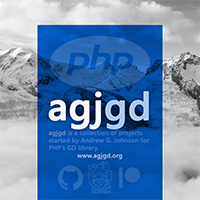
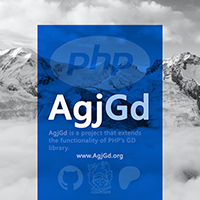
Updates for AgjGd 2.0

Changed region(s): [[0.21, 0.45, 0.75, 0.81], [0.51, 0.75, 0.69, 0.96]]

diff --git a/css/stylesheet.min.css b/css/stylesheet.min.css
@@ -1,1 +1,1 @@
-html{color:#000;background:#fff}blockquote,body,code,dd,div,dl,dt,fieldset,form,h1,h2,h3,h4,h5,h6,input,legend,li,ol,p,pre,td,textarea,th,ul{margin:0;padding:0}table{border-collapse:collapse;border-spacing:0}fieldset,img{border:0}address,caption,cite,code,dfn,em,strong,th,var{font-style:normal;font-weight:400}ol,ul{list-style:none}caption,th{text-align:left}h1,h2,h3,h4,h5,h6{font-size:100%;font-weight:400}q:after,q:before{content:''}abbr,acronym{border:0;font-variant:normal}sup{vertical-align:text-top}sub{vertical-align:text-bottom}input,select,textarea{font-family:inherit;font-size:inherit;font-weight:inherit}legend{color:#000}#yui3-css-stamp.cssreset{display:none}body,html{background-color:#fff;color:#000;font-family:"Hanken Grotesk",Arial,sans-serif;font-size:25px;text-align:center}a{color:#0366d6;text-decoration:none}a:hover{color:#2588f8;text-decoration:underline}strong{font-weight:700}em{font-style:italic}h1,h2{font-family:"Space Grotesk",Verdana,sans-serif;font-size:30px;font-weight:700;padding:10px 10px 0}ol,p,ul{line-height:150%;margin:0;padding:10px 10px 0}ol,ul{padding-left:35px}ul li{list-style-type:disc}ol li{list-style-type:decimal}h1{color:#fff;height:400px;padding:0;text-align:center;text-shadow:#000 0 0 2px,#000 0 0 2px}h1 strong{display:block;font-size:45px;line-height:65px;padding-top:295px}h1 small{display:block;font-family:"Space Mono","Courier New",Courier,monospace;font-size:12px;font-weight:400;letter-spacing:1px;line-height:20px;overflow:hidden;text-overflow:ellipsis;text-transform:uppercase;white-space:nowrap}h1 img{background-color:#000;border:6px solid #fff;border-radius:99px;box-shadow:0 0 20px 10px rgba(191,208,222,.67);display:block;height:171px;left:50%;margin-left:-93px;-moz-box-shadow:0 0 20px 10px rgba(191,208,222,.67);padding:1px;position:absolute;top:105px;-webkit-box-shadow:0 0 20px 10px rgba(191,208,222,.67);width:171px}div.block{border-bottom:1px solid #ddd;padding:20px 0 30px}div.with-avatar{position:relative}div.with-avatar p,div.with-avatar ul.projects{padding-right:120px;position:relative}img.avatar{background-color:#ccc;border-radius:20px;display:block;height:100px;margin:0 0 10px 10px;position:absolute;right:10px;top:10px;width:100px}#ctc-block p{padding-right:10px}#ctc-block img.avatar{float:right;position:relative;right:auto;top:auto}ul.projects{clear:left;padding:5px 5px 0}ul.projects li{list-style-type:none}ul.projects a{background-color:#eee;border-radius:5px;color:#000;display:block;float:left;font-family:"Space Mono","Courier New",Courier,monospace;font-size:12px;height:25px;line-height:25px;margin:5px 0 0 5px;padding:0 10px}ul.projects a:hover{color:#2588f8}ul.platforms{clear:left;padding:10px 0 0}ul.platforms li{display:inline;list-style-type:none}ul.platforms a{display:inline-block;font-family:"Space Mono","Courier New",Courier,monospace;font-size:20px;margin:0 5px;padding:0 5px;white-space:nowrap}#container{margin:0 auto;max-width:700px;position:relative;text-align:left;z-index:3}#contact{border-top:15px solid #fff;height:250px;padding:0;position:relative}#contact li{display:block;float:left;height:50px;line-height:50px;list-style-type:none;position:relative;width:50%}#contact li:nth-child(1){left:0;position:absolute;right:50%;top:0;width:auto}#contact li:nth-child(2){left:0;position:absolute;right:50%;top:50px;width:auto}#contact li:nth-child(3){left:0;position:absolute;right:50%;top:100px;width:auto}#contact li:nth-child(4){left:0;position:absolute;right:50%;top:150px;width:auto}#contact li:nth-child(5){left:0;position:absolute;right:50%;top:200px;width:auto}#contact li:nth-child(6){left:50%;position:absolute;right:0;top:0;width:auto}#contact li:nth-child(7){left:50%;position:absolute;right:0;top:50px;width:auto}#contact li:nth-child(8){left:50%;position:absolute;right:0;top:100px;width:auto}#contact li:nth-child(9){left:50%;position:absolute;right:0;top:150px;width:auto}#contact li:nth-child(10){left:50%;position:absolute;right:0;top:200px;width:auto}#contact a:hover{text-decoration:none}#contact small{color:#999;display:block;font-family:"Space Mono","Courier New",Courier,monospace;font-size:12px;letter-spacing:1px;padding:0 0 0 10px;text-transform:uppercase;width:90px}#contact strong{bottom:0;color:#000;display:block;font-size:17px;font-weight:400;left:100px;line-height:46px;right:0;overflow:hidden;position:absolute;text-overflow:ellipsis;top:0}#contact a:hover strong{color:#2588f8;text-decoration:underline}#badges{padding:10px 10px 0}#footer{color:#999;font-family:"Space Mono","Courier New",Courier,monospace;font-size:12px;padding:20px 0;text-align:center}#footer a{color:#999}#footer a:hover{color:#2588f8}#footer span{font-family:"Hanken Grotesk",Arial,sans-serif}#cover-image{background-color:#bfd0de;background-image:url(/cover-photo.jpg);background-position:50% 50%;background-repeat:no-repeat;background-size:cover;height:400px;left:0;position:absolute;right:0;top:0;z-index:2}#cover-image:after,#cover-image:before{background-image:linear-gradient(to bottom,rgba(0,0,0,0) 0,rgba(0,0,0,.5) 100%);background-image:-moz-linear-gradient(top,rgba(0,0,0,0) 0,rgba(0,0,0,.5) 100%);background-image:-ms-linear-gradient(top,rgba(0,0,0,0) 0,rgba(0,0,0,.5) 100%);background-image:-o-linear-gradient(top,rgba(0,0,0,0) 0,rgba(0,0,0,.5) 100%);background-image:-webkit-gradient(linear,left top,left bottom,color-stop(0,rgba(0,0,0,0)),color-stop(100%,rgba(0,0,0,.5)));background-image:-webkit-linear-gradient(top,rgba(0,0,0,0) 0,rgba(0,0,0,.5) 100%);bottom:0;content:"";display:block;height:100px;left:0;position:absolute;right:0}#cover-image:after{height:50px}@media only screen and (max-width :699px),only screen and (max-height :499px){body,html{font-size:20px}h1{height:150px}h1 strong{font-size:30px;line-height:40px;padding-top:80px}h1 small{letter-spacing:0}h1 img{border-width:1px;height:60px;margin-left:-32px;top:10px;width:60px}h2{font-size:25px}div.block{padding-bottom:20px;padding-top:10px}div.with-avatar ul.projects{clear:both;padding-right:10px}ul.platforms a{font-size:15px;margin-right:0}#cover-image{height:150px}}@media only screen and (max-width :699px){div.with-avatar p{padding-right:10px}div.with-avatar img.avatar{float:right;position:relative;right:auto;top:auto}#contact{border-top-width:8px;height:400px}#contact li{height:40px;line-height:40px;width:100%}#contact li:nth-child(1){left:0;right:0;top:0}#contact li:nth-child(2){left:0;right:0;top:40px}#contact li:nth-child(3){left:0;right:0;top:80px}#contact li:nth-child(4){left:0;right:0;top:120px}#contact li:nth-child(5){left:0;right:0;top:160px}#contact li:nth-child(6){left:0;right:0;top:200px}#contact li:nth-child(7){left:0;right:0;top:240px}#contact li:nth-child(8){left:0;right:0;top:280px}#contact li:nth-child(9){left:0;right:0;top:320px}#contact li:nth-child(10){left:0;right:0;top:360px}#contact strong{line-height:36px}}
+html{color:#000;background:#fff}blockquote,body,code,dd,div,dl,dt,fieldset,form,h1,h2,h3,h4,h5,h6,input,legend,li,ol,p,pre,td,textarea,th,ul{margin:0;padding:0}table{border-collapse:collapse;border-spacing:0}fieldset,img{border:0}address,caption,cite,code,dfn,em,strong,th,var{font-style:normal;font-weight:400}ol,ul{list-style:none}caption,th{text-align:left}h1,h2,h3,h4,h5,h6{font-size:100%;font-weight:400}q:after,q:before{content:''}abbr,acronym{border:0;font-variant:normal}sup{vertical-align:text-top}sub{vertical-align:text-bottom}input,select,textarea{font-family:inherit;font-size:inherit;font-weight:inherit}legend{color:#000}#yui3-css-stamp.cssreset{display:none}body,html{background-color:#fff;color:#000;font-family:"Hanken Grotesk",Arial,sans-serif;font-size:25px;text-align:center}a{color:#0366d6;text-decoration:none}a:hover{color:#2588f8;text-decoration:underline}strong{font-weight:700}em{font-style:italic}h1,h2{font-family:"Space Grotesk",Verdana,sans-serif;font-size:30px;font-weight:700;padding:10px 10px 0}ol,p,ul{line-height:150%;margin:0;padding:10px 10px 0}ol,ul{padding-left:35px}ul li{list-style-type:disc}ol li{list-style-type:decimal}h1{color:#fff;height:400px;padding:0;text-align:center;text-shadow:#000 0 0 2px,#000 0 0 2px}h1 strong{display:block;font-size:45px;line-height:65px;padding-top:295px}h1 small{display:block;font-family:"Space Mono","Courier New",Courier,monospace;font-size:12px;font-weight:400;letter-spacing:1px;line-height:20px;overflow:hidden;text-overflow:ellipsis;text-transform:uppercase;white-space:nowrap}h1 img{background-color:#000;border:6px solid #fff;border-radius:99px;box-shadow:0 0 20px 10px rgba(191,208,222,.67);display:block;height:171px;left:50%;margin-left:-93px;-moz-box-shadow:0 0 20px 10px rgba(191,208,222,.67);padding:1px;position:absolute;top:105px;-webkit-box-shadow:0 0 20px 10px rgba(191,208,222,.67);width:171px}div.block{border-bottom:1px solid #ddd;padding:20px 0 30px}div.with-avatar{position:relative}div.with-avatar p,div.with-avatar ul.projects{padding-right:120px;position:relative}img.avatar{background-color:#ccc;border-radius:20px;display:block;height:100px;margin:0 0 10px 10px;position:absolute;right:10px;top:10px;width:100px}#ctc-block p{padding-right:10px}#ctc-block img.avatar{float:right;position:relative;right:auto;top:auto}ul.projects{clear:left;padding:5px 5px 0}ul.projects li{list-style-type:none}ul.projects a{background-color:#eee;border-radius:5px;color:#000;display:block;float:left;font-family:"Space Mono","Courier New",Courier,monospace;font-size:12px;height:25px;line-height:25px;margin:5px 0 0 5px;padding:0 10px}ul.projects a:hover{color:#2588f8}ul.platforms{clear:left;padding:10px 0 0}ul.platforms li{display:inline;list-style-type:none}ul.platforms a{display:inline-block;font-family:"Space Mono","Courier New",Courier,monospace;font-size:20px;margin:0 5px;padding:0 5px;white-space:nowrap}#container{margin:0 auto;max-width:700px;position:relative;text-align:left;z-index:3}#contact{border-top:15px solid #fff;height:250px;padding:0;position:relative}#contact li{display:block;float:left;height:50px;line-height:50px;list-style-type:none;position:relative;width:50%}#contact li:nth-child(1){left:0;position:absolute;right:50%;top:0;width:auto}#contact li:nth-child(2){left:0;position:absolute;right:50%;top:50px;width:auto}#contact li:nth-child(3){left:0;position:absolute;right:50%;top:100px;width:auto}#contact li:nth-child(4){left:0;position:absolute;right:50%;top:150px;width:auto}#contact li:nth-child(5){left:0;position:absolute;right:50%;top:200px;width:auto}#contact li:nth-child(6){left:50%;position:absolute;right:0;top:0;width:auto}#contact li:nth-child(7){left:50%;position:absolute;right:0;top:50px;width:auto}#contact li:nth-child(8){left:50%;position:absolute;right:0;top:100px;width:auto}#contact li:nth-child(9){left:50%;position:absolute;right:0;top:150px;width:auto}#contact li:nth-child(10){left:50%;position:absolute;right:0;top:200px;width:auto}#contact a:hover{text-decoration:none}#contact small{color:#999;display:block;font-family:"Space Mono","Courier New",Courier,monospace;font-size:12px;letter-spacing:1px;padding:0 0 0 10px;text-transform:uppercase;width:90px}#contact strong{bottom:0;color:#000;display:block;font-size:17px;font-weight:400;left:100px;line-height:47px;right:0;overflow:hidden;position:absolute;text-overflow:ellipsis;top:0}#contact a:hover strong{color:#2588f8;text-decoration:underline}#badges{padding:10px 10px 0}#footer{color:#999;font-family:"Space Mono","Courier New",Courier,monospace;font-size:12px;padding:20px 0;text-align:center}#footer a{color:#999}#footer a:hover{color:#2588f8}#footer span{font-family:"Hanken Grotesk",Arial,sans-serif}#cover-image{background-color:#bfd0de;background-image:url(/cover-photo.jpg);background-position:50% 50%;background-repeat:no-repeat;background-size:cover;height:400px;left:0;position:absolute;right:0;top:0;z-index:2}#cover-image:after,#cover-image:before{background-image:linear-gradient(to bottom,rgba(0,0,0,0) 0,rgba(0,0,0,.5) 100%);background-image:-moz-linear-gradient(top,rgba(0,0,0,0) 0,rgba(0,0,0,.5) 100%);background-image:-ms-linear-gradient(top,rgba(0,0,0,0) 0,rgba(0,0,0,.5) 100%);background-image:-o-linear-gradient(top,rgba(0,0,0,0) 0,rgba(0,0,0,.5) 100%);background-image:-webkit-gradient(linear,left top,left bottom,color-stop(0,rgba(0,0,0,0)),color-stop(100%,rgba(0,0,0,.5)));background-image:-webkit-linear-gradient(top,rgba(0,0,0,0) 0,rgba(0,0,0,.5) 100%);bottom:0;content:"";display:block;height:100px;left:0;position:absolute;right:0}#cover-image:after{height:50px}@media only screen and (max-width :699px),only screen and (max-height :499px){body,html{font-size:20px}h1{height:150px}h1 strong{font-size:30px;line-height:40px;padding-top:80px}h1 small{letter-spacing:0}h1 img{border-width:1px;height:60px;margin-left:-32px;top:10px;width:60px}h2{font-size:25px}div.block{padding-bottom:20px;padding-top:10px}div.with-avatar ul.projects{clear:both;padding-right:10px}ul.platforms a{font-size:15px;margin-right:0}#cover-image{height:150px}}@media only screen and (max-width :699px){div.with-avatar p{padding-right:10px}div.with-avatar img.avatar{float:right;position:relative;right:auto;top:auto}#contact{border-top-width:8px;height:400px}#contact li{height:40px;line-height:40px;width:100%}#contact li:nth-child(1){left:0;right:0;top:0}#contact li:nth-child(2){left:0;right:0;top:40px}#contact li:nth-child(3){left:0;right:0;top:80px}#contact li:nth-child(4){left:0;right:0;top:120px}#contact li:nth-child(5){left:0;right:0;top:160px}#contact li:nth-child(6){left:0;right:0;top:200px}#contact li:nth-child(7){left:0;right:0;top:240px}#contact li:nth-child(8){left:0;right:0;top:280px}#contact li:nth-child(9){left:0;right:0;top:320px}#contact li:nth-child(10){left:0;right:0;top:360px}#contact strong{line-height:37px}}

diff --git a/_layouts/default.html b/_layouts/default.html
@@ -7,10 +7,10 @@
         <meta name="description" content="Andrew G Johnson.com: Software Engineer, Web Developer and Technologist" />
         <meta name="keywords" content="Andrew G Johnson, software engineer, web developer, technologist, Winnipeg" />
         <meta name="viewport" content="width=device-width, initial-scale=1.0" />
-        <link rel="shortcut icon" href="/favicon.ico" />
-        <link rel="icon" href="/favicon.ico" />
-        <link rel="icon" type="image/png" sizes="16x16" href="/favicon.png">
-        <link rel="icon" type="image/png" sizes="32x32" href="/favicon32x32.png">
+        <link rel="shortcut icon" href="/favicon.ico?_={{ site.time | date: '%Y%m%d%H%M%S' }}" />
+        <link rel="icon" href="/favicon.ico?_={{ site.time | date: '%Y%m%d%H%M%S' }}" />
+        <link rel="icon" type="image/png" sizes="16x16" href="/favicon.png?_={{ site.time | date: '%Y%m%d%H%M%S' }}">
+        <link rel="icon" type="image/png" sizes="32x32" href="/favicon32x32.png?_={{ site.time | date: '%Y%m%d%H%M%S' }}">
         <link rel="preconnect" href="https://fonts.googleapis.com" />
         <link rel="preconnect" href="https://fonts.gstatic.com" crossorigin="anonymous" />
         <link rel="stylesheet" href="https://fonts.googleapis.com/css2?family=Hanken+Grotesk:ital,wght@0,400;0,700;1,400;1,700&family=Space+Grotesk:wght@400;700&family=Space+Mono:ital,wght@0,400;0,700;1,400;1,700&display=swap" />
@@ -19,7 +19,6 @@
         {% else %}
             <link rel="stylesheet" href="/css/stylesheet.css" />
         {% endif %}
-        <link rel="stylesheet" href="https://cdn.jsdelivr.net/npm/@fortawesome/fontawesome-free@7.2.0/css/all.min.css" integrity="sha512-nMJjQudb6RMMr08oY6YSfNlEWl1l8XWuoOwNvtWXrrgVs8MCR8AZBB1tEAO+ogiI93gXtG1XPmg+bAP5DochSA==" crossorigin="anonymous" />
     </head>
     <body>
         <div id="container">

diff --git a/css/stylesheet.css b/css/stylesheet.css
@@ -55,7 +55,7 @@ ul.platforms a                                { display:inline-block;font-family
 #contact li:nth-child(10)                     { left:50%;position:absolute;right:0;top:200px;width:auto }
 #contact a:hover                              { text-decoration:none }
 #contact small                                { color:#999999;display:block;font-family:"Space Mono","Courier New","Courier",monospace;font-size:12px;letter-spacing:1px;padding:0 0 0 10px;text-transform:uppercase;width:90px }
-#contact strong                               { bottom:0;color:#000000;display:block;font-size:17px;font-weight:normal;left:100px;line-height:46px;right:0;overflow:hidden;position:absolute;text-overflow:ellipsis;top:0 }
+#contact strong                               { bottom:0;color:#000000;display:block;font-size:17px;font-weight:normal;left:100px;line-height:47px;right:0;overflow:hidden;position:absolute;text-overflow:ellipsis;top:0 }
 #contact a:hover strong                       { color:#2588f8;text-decoration:underline }
 
 #badges                                       { padding:10px 10px 0 }
@@ -104,5 +104,5 @@ ul.platforms a                                { display:inline-block;font-family
     #contact li:nth-child(8)                  { left:0;right:0;top:280px }
     #contact li:nth-child(9)                  { left:0;right:0;top:320px }
     #contact li:nth-child(10)                 { left:0;right:0;top:360px }
-    #contact strong                           { line-height:36px }
+    #contact strong                           { line-height:37px }
 }

diff --git a/pages/index.md b/pages/index.md
@@ -80,37 +80,37 @@ permalink: /
         <a href="https://github.com/andrewgjohnson/andrewgjohnson/blob/main/DOWNLOADS.md#packagist--php" title="Packagist Downloads"><img src="https://raw.githubusercontent.com/andrewgjohnson/andrewgjohnson/main/badges/packagist.png" alt="Packagist Downloads" /></a> <a href="https://github.com/andrewgjohnson/andrewgjohnson/blob/main/DOWNLOADS.md#npm--typescript--javascript" title="npm Downloads"><img src="https://raw.githubusercontent.com/andrewgjohnson/andrewgjohnson/main/badges/npm.png" alt="npm Downloads" /></a> <a href="https://github.com/andrewgjohnson/andrewgjohnson/blob/main/DOWNLOADS.md#rubygems--ruby" title="RubyGems Downloads"><img src="https://raw.githubusercontent.com/andrewgjohnson/andrewgjohnson/main/badges/rubygems.png" alt="RubyGems Downloads" /></a> <a href="https://github.com/andrewgjohnson/andrewgjohnson/blob/main/JEKYLL.md" title="Jekyll Theme Installs"><img src="https://raw.githubusercontent.com/andrewgjohnson/andrewgjohnson/main/badges/jekyll.png" alt="Jekyll Theme Installs" /></a> <a href="https://github.com/andrewgjohnson/andrewgjohnson/blob/main/STARGAZERS.md" title="Stargazers"><img src="https://raw.githubusercontent.com/andrewgjohnson/andrewgjohnson/main/badges/stargazers.png" alt="Stargazers" /></a>
     </p>
     <p>
-        <a href="https://agjgd.org/" title="agjgd"><img src="/agjgd.png?_={{ site.time | date: '%Y%m%d%H%M%S' }}" alt="agjgd" class="avatar" /><strong>agjgd</strong></a> is a collection of projects for <a href="https://www.php.net" title="PHP">PHP</a>’s <a href="https://www.php.net/manual/book.image.php" title="GD">GD</a> library. They were released under <a href="https://opensource.org/licenses/mit/" title="The MIT License">the MIT license</a>.
+        <a href="https://AgjGd.org/" title="AgjGd"><img src="/AgjGd.png?_={{ site.time | date: '%Y%m%d%H%M%S' }}" alt="AgjGd" class="avatar" /><strong>AgjGd</strong></a> is a project that extends the functionality of <a href="https://www.php.net" title="PHP">PHP</a>’s <a href="https://www.php.net/manual/book.image.php" title="GD">GD</a> library. It was released under <a href="https://opensource.org/licenses/mit/" title="The MIT License">the MIT license</a>.
     </p>
     <ul class="projects">
         <li>
-            <a href="https://imageblendedcolorallocate.agjgd.org/" title="imageblendedcolorallocate">imageblendedcolorallocate</a>
+            <a href="https://agjgd.org/methods/imageblendedcolorallocate/" title="imageblendedcolorallocate">imageblendedcolorallocate</a>
         </li>
         <li>
-            <a href="https://imagecolorallocatefromstring.agjgd.org/" title="imagecolorallocatefromstring">imagecolorallocatefromstring</a>
+            <a href="https://agjgd.org/methods/imagecolorallocatefromstring/" title="imagecolorallocatefromstring">imagecolorallocatefromstring</a>
         </li>
         <li>
-            <a href="https://imagegradientrectangle.agjgd.org/" title="imagegradientrectangle">imagegradientrectangle</a>
+            <a href="https://agjgd.org/methods/imagegradientrectangle/" title="imagegradientrectangle">imagegradientrectangle</a>
         </li>
         <li>
-            <a href="https://imagettftextblur.agjgd.org/" title="imagettftextblur">imagettftextblur</a>
+            <a href="https://agjgd.org/methods/imagettftextblur/" title="imagettftextblur">imagettftextblur</a>
         </li>
         <li>
-            <a href="https://imagettftextgradient.agjgd.org/" title="imagettftextgradient">imagettftextgradient</a>
+            <a href="https://agjgd.org/methods/imagettftextgradient/" title="imagettftextgradient">imagettftextgradient</a>
         </li>
         <li>
-            <a href="https://linebreaks4imagettftext.agjgd.org/" title="linebreaks4imagettftext">linebreaks4imagettftext</a>
+            <a href="https://agjgd.org/methods/linebreaks4imagettftext/" title="linebreaks4imagettftext">linebreaks4imagettftext</a>
         </li>
     </ul>
     <ul class="platforms">
         <li>
-            <a href="https://agjgd.org/" title="Website">Website↗</a>
+            <a href="https://AgjGd.org/" title="Website">Website↗</a>
         </li>
         <li>
-            <a href="https://github.com/agjgd/agjgd" title="GitHub">GitHub↗</a>
+            <a href="https://github.com/andrewgjohnson/AgjGd" title="GitHub">GitHub↗</a>
         </li>
         <li>
-            <a href="https://packagist.org/packages/agjgd/agjgd" title="Packagist">Packagist↗</a>
+            <a href="https://packagist.org/packages/andrewgjohnson/agjgd" title="Packagist">Packagist↗</a>
         </li>
         <li>
             <a href="https://x.com/agjgdphp" title="𝕏.com">𝕏.com↗</a>
